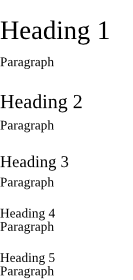
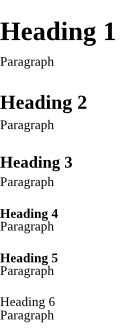
Add bold and italic text

diff --git a/renderer.go b/renderer.go
@@ -18,9 +18,19 @@ type Renderer struct {
 	mx sync.Mutex
 	at vg.Point
 
-	// TextStyle specifies the text style. The default is black, left-aligned
-	// text. Left-alignment is currently the only supported alignment.
-	draw.TextStyle
+	sty draw.TextStyle
+
+	// Font, BoldFont, and ItalicFont are the names of the fonts
+	// to be used for regular, bold, italic, and bold-italic text, respectively.
+	// The defaults are "Helvetica", "Helvetica-Bold", "Helvetica-Oblique",
+	// and "Helvetica-BoldOblique", respectively.
+	Font, BoldFont, ItalicFont, BoldItalicFont string
+
+	// Size is the base font size. The default is 12.
+	Size vg.Length
+
+	// Color is the font color.
+	Color color.Color
 
 	// PMarginTop and PMarginBottom are the margins before and
 	// after paragraphs. Defaults are 0 and 0.833 text height units, respectively.
@@ -38,20 +48,20 @@ type Renderer struct {
 	// Default values are 1, 0.833, 0.75, 0.5, 0.5, and 0.5 respectively.
 	H1MarginBottom, H2MarginBottom, H3MarginBottom, H4MarginBottom, H5MarginBottom, H6MarginBottom float64
 
+	// H*Bold specifies whether the headings should be bold-face.
+	// The defaults are true, true, true, true, true, and false, respectively.
+	H1Bold, H2Bold, H3Bold, H4Bold, H5Bold, H6Bold bool
+
 	// SuperscriptPosition, SubscriptPosition, and SuperSubScale
 	// are the relative positions and sizes of superscripts and subscripts.
 	// Defaults are +0.25, -1.25, and 0.583, respectively.
 	SuperscriptPosition, SubscriptPosition, SuperSubScale float64
 }
 
-func NewRenderer(font vg.Font) *Renderer {
+func NewRenderer() *Renderer {
 	r := &Renderer{
-		TextStyle: draw.TextStyle{
-			Color:  color.Black,
-			Font:   font,
-			XAlign: draw.XLeft,
-			YAlign: draw.YTop,
-		},
+		Color:               color.Black,
+		Size:                vg.Points(12),
 		PMarginBottom:       0.833,
 		SuperscriptPosition: 0.25,
 		SubscriptPosition:   -1.25,
@@ -62,11 +72,26 @@ func NewRenderer(font vg.Font) *Renderer {
 		1, 0.833, 0.75, 0.5, 0.5, 0.5
 	r.H1MarginBottom, r.H2MarginBottom, r.H3MarginBottom, r.H4MarginBottom, r.H5MarginBottom, r.H6MarginBottom =
 		1, 0.833, 0.75, 0.5, 0.5, 0.5
+	r.H1Bold, r.H2Bold, r.H3Bold, r.H4Bold, r.H5Bold, r.H6Bold =
+		true, true, true, true, true, false
+	r.Font, r.BoldFont, r.ItalicFont, r.BoldItalicFont =
+		"Helvetica", "Helvetica-Bold", "Helvetica-Oblique", "Helvetica-BoldOblique"
 	return r
 }
 
 // Draw renders the HTML input to canvas dc.
 func (r *Renderer) Draw(dc draw.Canvas, HTML []byte) error {
+	f, err := vg.MakeFont(r.Font, r.Size)
+	if err != nil {
+		return err
+	}
+	r.sty = draw.TextStyle{
+		Font:   f,
+		Color:  r.Color,
+		XAlign: draw.XLeft,
+		YAlign: draw.YTop,
+	}
+
 	r.mx.Lock()
 	defer r.mx.Unlock()
 	r.dc = dc
@@ -106,17 +131,21 @@ func (r *Renderer) element(e *html.Node) error {
 	case "p":
 		return r.paragraph(e)
 	case "h1":
-		return r.heading(e, r.H1Scale, r.H1MarginTop, r.H1MarginBottom)
+		return r.heading(e, r.H1Scale, r.H1MarginTop, r.H1MarginBottom, r.H1Bold)
 	case "h2":
-		return r.heading(e, r.H2Scale, r.H2MarginTop, r.H2MarginBottom)
+		return r.heading(e, r.H2Scale, r.H2MarginTop, r.H2MarginBottom, r.H2Bold)
 	case "h3":
-		return r.heading(e, r.H3Scale, r.H3MarginTop, r.H3MarginBottom)
+		return r.heading(e, r.H3Scale, r.H3MarginTop, r.H3MarginBottom, r.H3Bold)
 	case "h4":
-		return r.heading(e, r.H4Scale, r.H4MarginTop, r.H4MarginBottom)
+		return r.heading(e, r.H4Scale, r.H4MarginTop, r.H4MarginBottom, r.H4Bold)
 	case "h5":
-		return r.heading(e, r.H5Scale, r.H5MarginTop, r.H5MarginBottom)
+		return r.heading(e, r.H5Scale, r.H5MarginTop, r.H5MarginBottom, r.H5Bold)
 	case "h6":
-		return r.heading(e, r.H6Scale, r.H6MarginTop, r.H6MarginBottom)
+		return r.heading(e, r.H6Scale, r.H6MarginTop, r.H6MarginBottom, r.H6Bold)
+	case "strong", "b":
+		return r.newFont(e, r.BoldFont)
+	case "em", "i":
+		return r.newFont(e, r.ItalicFont)
 	case "sup":
 		return r.subsuperscript(e, vg.Length(r.SuperscriptPosition))
 	case "sub":
@@ -135,49 +164,73 @@ func (r *Renderer) element(e *html.Node) error {
 
 // paragraph renders an HTML p element.
 func (r *Renderer) paragraph(p *html.Node) error {
-	r.at = vg.Point{X: 0, Y: r.at.Y - r.TextStyle.Font.Size*vg.Length(r.PMarginTop)}
+	r.at = vg.Point{X: 0, Y: r.at.Y - r.Size*vg.Length(r.PMarginTop)}
 	for c := p.FirstChild; c != nil; c = c.NextSibling {
 		if err := r.draw(c); err != nil {
 			return err
 		}
 	}
-	r.at = vg.Point{X: 0, Y: r.at.Y - r.TextStyle.Font.Size*(1+vg.Length(r.PMarginBottom))}
+	r.at = vg.Point{X: 0, Y: r.at.Y - r.Size*(1+vg.Length(r.PMarginBottom))}
 	return nil
 }
 
 // text renders HTML normal text.
 func (r *Renderer) text(t *html.Node) error {
-	r.writeLines(t.Data, r.TextStyle)
+	r.writeLines(t.Data, r.sty)
 	return nil
 }
 
 // subsuperscript renders superscript or subscript text.
 func (r *Renderer) subsuperscript(s *html.Node, position vg.Length) error {
-	r.TextStyle.Font.Size *= vg.Length(r.SuperSubScale)
-	r.at.Y += r.TextStyle.Font.Size * position
+	r.sty.Font.Size *= vg.Length(r.SuperSubScale)
+	r.at.Y += r.sty.Font.Size * position
 	for c := s.FirstChild; c != nil; c = c.NextSibling {
 		if err := r.draw(c); err != nil {
 			return err
 		}
 	}
-	r.at.Y -= r.TextStyle.Font.Size * position
-	r.TextStyle.Font.Size /= vg.Length(r.SuperSubScale)
+	r.at.Y -= r.sty.Font.Size * position
+	r.sty.Font.Size /= vg.Length(r.SuperSubScale)
 	return nil
 }
 
-func (r *Renderer) heading(h *html.Node, scale, marginTop, marginBottom float64) error {
+func (r *Renderer) heading(h *html.Node, scale, marginTop, marginBottom float64, bold bool) error {
+	if bold {
+		f := r.sty.Font
+		if err := r.sty.Font.SetName(r.BoldFont); err != nil {
+			return err
+		}
+		defer func() {
+			r.sty.Font = f
+		}()
+	}
 	r.at.X = r.dc.Min.X
-	r.at.Y -= r.TextStyle.Font.Size * vg.Length(marginTop)
-	r.TextStyle.Font.Size *= vg.Length(scale)
+	r.at.Y -= r.Size * vg.Length(marginTop)
+	r.sty.Font.Size *= vg.Length(scale)
 	for c := h.FirstChild; c != nil; c = c.NextSibling {
 		if err := r.draw(c); err != nil {
 			return err
 		}
 	}
-	r.at.Y -= r.TextStyle.Font.Size * vg.Length(marginBottom)
-	r.TextStyle.Font.Size /= vg.Length(scale)
+	r.at.Y -= r.sty.Font.Size * vg.Length(marginBottom)
+	r.sty.Font.Size /= vg.Length(scale)
 	r.at.X = r.dc.Min.X
-	r.at.Y -= r.TextStyle.Font.Size * vg.Length(marginBottom)
+	r.at.Y -= r.Size * vg.Length(marginBottom)
+	return nil
+}
+
+// newFont temporarily changes the font.
+func (r *Renderer) newFont(n *html.Node, font string) error {
+	f := r.sty.Font
+	if err := r.sty.Font.SetName(font); err != nil {
+		return err
+	}
+	for c := n.FirstChild; c != nil; c = c.NextSibling {
+		if err := r.draw(c); err != nil {
+			return err
+		}
+	}
+	r.sty.Font = f
 	return nil
 }
 
@@ -215,7 +268,7 @@ func (r *Renderer) writeLines(text string, sty draw.TextStyle) {
 			}
 			r.dc.FillText(sty, r.at, line)
 			r.at.X = r.dc.Min.X
-			r.at.Y -= sty.Font.Size
+			r.at.Y -= r.Size
 			line = ""
 		} else {
 			line = str[lineStart:lineEnd]

diff --git a/renderer_test.go b/renderer_test.go
@@ -38,7 +38,7 @@ Mauris et tellus sagittis, laoreet dui id, mollis erat. Duis ultrices facilisis 
 			height:   vg.Points(210),
 		},
 		{
-			html: `<p>Superscript and subscript don't currently work will with line breaks.</p>
+			html: `<p>Superscript and subscript don't currently work well with line breaks.</p>
 <p>Here we try s<sup>u</sup>per<sub>s</sub>cript and s<sub>ubsc</sub>ript. H<sub>2</sub>O<sup>(2)</sub> PM<sub>2.5</sub>`,
 			filename: "testdata/supersub.png",
 			width:    vg.Points(150),
@@ -59,7 +59,13 @@ Mauris et tellus sagittis, laoreet dui id, mollis erat. Duis ultrices facilisis 
 <p>Paragraph</p>`,
 			filename: "testdata/headings.png",
 			width:    vg.Points(100),
-			height:   vg.Points(210),
+			height:   vg.Points(250),
+		},
+		{
+			html:     `<p>Here we try some <strong>bold</strong> and <em>italic</em> text.</p>`,
+			filename: "testdata/bolditalic.png",
+			width:    vg.Points(100),
+			height:   vg.Points(25),
 		},
 	}
 
@@ -68,12 +74,12 @@ Mauris et tellus sagittis, laoreet dui id, mollis erat. Duis ultrices facilisis 
 			c := vgimg.New(test.width, test.height)
 			dc := draw.New(c)
 
-			font, err := vg.MakeFont("Times-Roman", 10)
-			if err != nil {
-				t.Fatal(err)
-			}
-
-			r := NewRenderer(font)
+			r := NewRenderer()
+			r.Size = 10
+			r.Font = "Times-Roman"
+			r.BoldFont = "Times-Bold"
+			r.ItalicFont = "Times-Italic"
+			r.BoldItalicFont = "Times-BoldItalic"
 
 			if err := r.Draw(dc, []byte(test.html)); err != nil {
 				t.Fatal(err)
@@ -96,12 +102,12 @@ func TestRenderer_Draw_crop(t *testing.T) {
 	dc := draw.New(c)
 	dc = draw.Crop(dc, 20, 0, 0, -10)
 
-	font, err := vg.MakeFont("Times-Roman", 10)
-	if err != nil {
-		t.Fatal(err)
-	}
-
-	r := NewRenderer(font)
+	r := NewRenderer()
+	r.Size = 10
+	r.Font = "Times-Roman"
+	r.BoldFont = "Times-Bold"
+	r.ItalicFont = "Times-Italic"
+	r.BoldItalicFont = "Times-BoldItalic"
 
 	if err := r.Draw(dc, []byte("hello world!")); err != nil {
 		t.Fatal(err)
